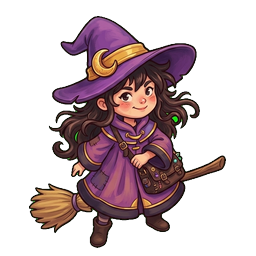
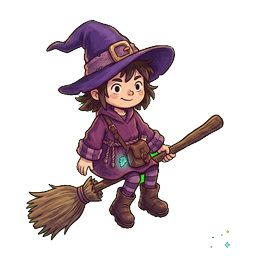
release: v0.36.0 (sanat: yenile-cadi-ucus)

diff --git a/sw.js b/sw.js
@@ -1,5 +1,5 @@
 // Çevrimdışı çalışma: kod ve sayfa önce ağdan (güncel sürüm), görseller önce önbellekten.
-const CACHE = 'hexling-v152';
+const CACHE = 'hexling-v153';
 const CORE = ['index.html', 'manifest.webmanifest', 'dist/main.js', 'dist/minis.js', 'dist/game.js', 'dist/data.js', 'dist/audio.js', 'dist/settings.js', 'dist/i18n.js', 'dist/scenery.js', 'dist/version.js', 'dist/billing.js', 'dist/ads.js', 'dist/fight.js', 'dist/hof.js', 'dist/house.js', 'dist/meta.js', 'dist/quests.js', 'dist/story.js', 'dist/tiger.js', 'dist/notify.js', 'dist/mine.js', 'dist/mine3d.js', 'vendor/three.min.js', 'assets/manifest.json', 'assets/title_bg.jpg', 'assets/arena_bg.jpg', 'icons/icon-192.png'];
 
 self.addEventListener('install', (e) => {

diff --git a/dist/version.js b/dist/version.js
@@ -1,4 +1,4 @@
 /** Sürüm bilgisi: açılış sayfasında ve stat sayfasında gösterilir. Her yayında güncelle. */
-export const VERSION = '0.35.0';
+export const VERSION = '0.36.0';
 export const BUILD = '2026-10-05';
 export const CODENAME = 'Yeni Sanat';
